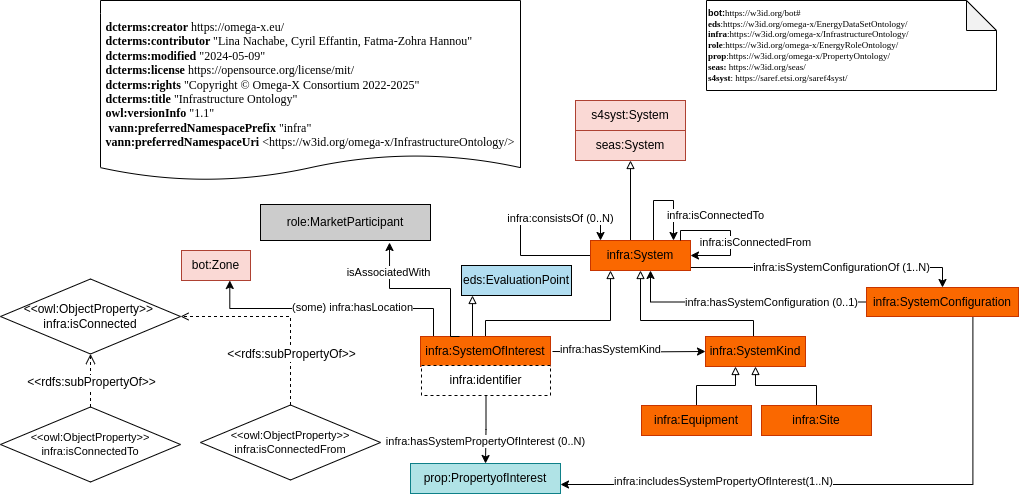
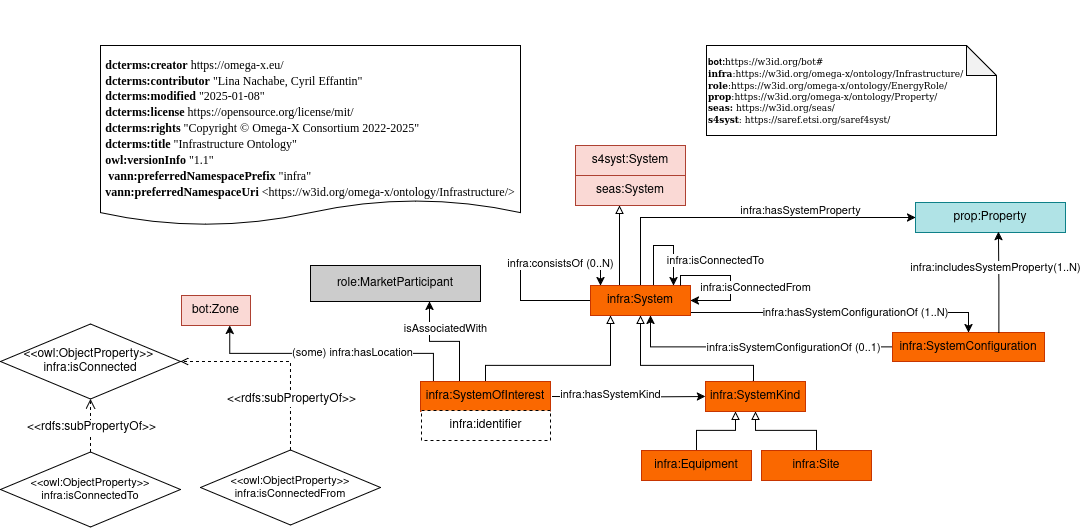
add system kind and system of interest

Changed region(s): [[0.0, 0.0, 1.0, 1.0], [0.9431, 0.0, 0.9735, 0.0607], [0.9127, 0.1822, 0.9431, 0.2126]]

diff --git a/InfrastructureOntology/README.md b/InfrastructureOntology/README.md
@@ -29,22 +29,21 @@ The system of interest has a system kind and a system configuration encompassing
 
 ## Glossary
 ### OMEGA-X Infrastructure
-* [**infra:_System_**](https://w3id.org/omega-x/InfrastructureOntology/System/)
+* [**infra:_System_**](https://w3id.org/omega-x/ontology/Infrastructure/System)
 A system is an abstract class that can be a system of interest or a system kind. A system can consist f another system and can be connected to another system. 
-* [**infra:_SystemOfInterest_**](https://w3id.org/omega-x/InfrastructureOntology/SystemOfInterest/)
+* [**infra:_SystemOfInterest_**](https://w3id.org/omega-x/ontology/Infrastructure/SystemOfInterest)
 A system of intrest represents specific systems within the infrastructure. If an exchanges dataset is attached to the system of interest, it will be considered as an evaluation point.
-* [**infra:_SystemKind_**](https://w3id.org/omega-x/InfrastructureOntology/SystemKind/)
+* [**infra:_SystemKind_**](https://w3id.org/omega-x/ontology/Infrastructure/SystemKind)
 The system kind class provides a taxonomy for the categorization of infrastructure equipment and sites, enabling better organization and classification of components within the infrastructure. A system kind may be an equipment, a site, or any other physical or virtual system. A system kind that is neither an equipment nor a site may be, for instance, an electric grid or a data analytics service available on a Dataspace.
-* [**infra:Equipment**](https://w3id.org/omega-x/InfrastructureOntology/Equipment/)
+* [**infra:Equipment**](https://w3id.org/omega-x/ontology/Infrastructure/Equipment)
 An equipement is a physical system kind which is part of the infrastructure.An equipment may be, for instance, an inverter or an electric vehicle charging station.
-* [**infra:Site**](https://w3id.org/omega-x/InfrastructureOntology/Site/)
+* [**infra:Site**](https://w3id.org/omega-x/ontology/Infrastructure/Site)
 A site is a part of the physical world or a virtual world that is inherently both located in this world and having a 3D spatial extent. It can include more than one equipment. A site may be, for instance, a solar plant or an electric vehicle charging station pool.
-* [**infra:SystemConfiguration**](https://w3id.org/omega-x/InfrastructureOntology/SystemConfiguration/)
+* [**infra:SystemConfiguration**](https://w3id.org/omega-x/ontology/Infrastructure/SystemConfiguration)
 A system configuration is a set of properties characterizing its structure and behavior. In case of an equipment, it may reflect its datasheet.
 ## OWL Description
 ![Diagram](./InfraModule-v1.1.png)
-# Recommendations
-- A `infra:SystemOfInterest` can be an `eds:EvaluationPoint` (see [_EvaluationPoint_](../Energy Data Set Ontology) once an energy data set is attached to it. 
+# Recommendations 
 - The static attributes of an `infra:SystemOfInterest` can be defined in `infra:SystemConfiguration`. 
 - A `infra:SystemOfInterest` can have a location. 
 - A `infra:System` can consist of an another  `infra:System` or many  `infra:System`.
